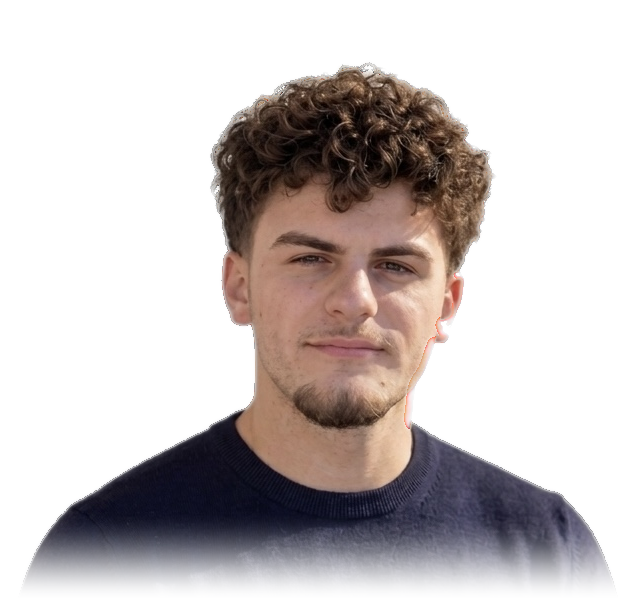
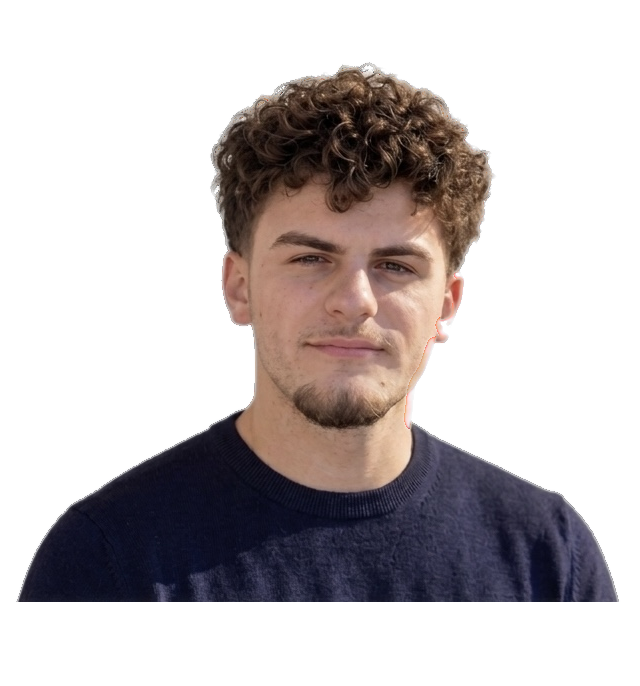
Corrige le fondu photo : les épaules restent intactes, le dégradé se déroule après

diff --git a/index.html b/index.html
@@ -304,7 +304,7 @@
     .about-photo.reveal { transition-delay: 100ms; }
     .about-photo img {
       display: block; width: 100%; height: auto;
-      aspect-ratio: 640 / 602; object-fit: cover;
+      aspect-ratio: 640 / 686; object-fit: cover;
     }
 
     @media (max-width: 680px) {
@@ -560,7 +560,7 @@
         Après un baccalauréat obtenu avec la mention Bien (15,45/20 de moyenne, spécialités Mathématiques et SES), je rejoins l'année préparatoire du <strong>BBA d'HEC Montréal</strong> en août 2026. J'ai grandi à Saint-Maur-des-Fossés, passé deux semaines en immersion totale en anglais à Brighton, et observé le fonctionnement de deux entreprises très différentes, un grand groupe agroalimentaire et une PME. Je m'intéresse à la logistique et au supply chain, la mécanique qui fait tourner les entreprises à l'échelle internationale, un intérêt qui s'étend naturellement à l'intelligence artificielle et aux économies d'Asie du Sud-Est, notamment.
       </p>
       <div class="about-photo reveal">
-        <img src="portrait.png" alt="Victor Loiseau" width="640" height="602" loading="lazy">
+        <img src="portrait.png" alt="Victor Loiseau" width="640" height="686" loading="lazy">
       </div>
     </div>
   </section>
